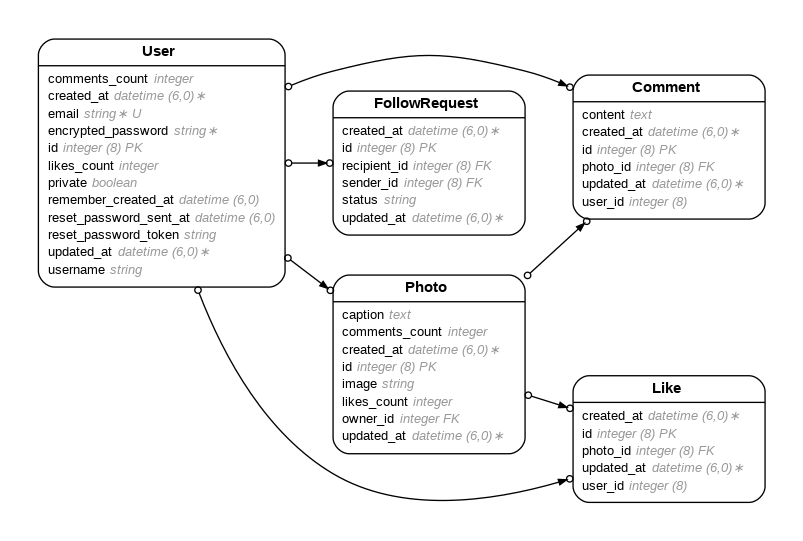
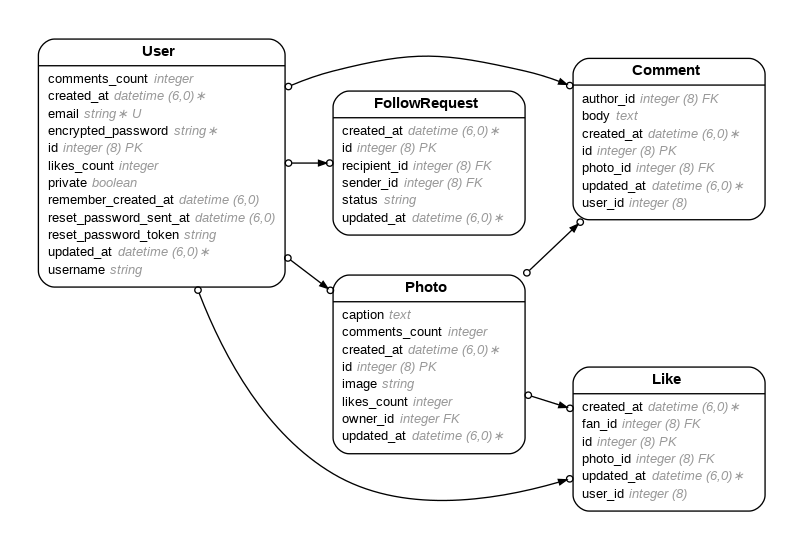
pre-controller push

diff --git a/db/schema.rb b/db/schema.rb
@@ -10,16 +10,17 @@
 #
 # It's strongly recommended that you check this file into your version control system.
 
-ActiveRecord::Schema[7.1].define(version: 2024_12_14_024503) do
+ActiveRecord::Schema[7.1].define(version: 2024_12_14_031443) do
   # These are extensions that must be enabled in order to support this database
   enable_extension "plpgsql"
 
   create_table "comments", force: :cascade do |t|
-    t.text "content"
+    t.text "body"
     t.bigint "user_id"
     t.bigint "photo_id"
     t.datetime "created_at", null: false
     t.datetime "updated_at", null: false
+    t.bigint "author_id"
     t.index ["photo_id"], name: "index_comments_on_photo_id"
     t.index ["user_id"], name: "index_comments_on_user_id"
   end
@@ -39,6 +40,7 @@ ActiveRecord::Schema[7.1].define(version: 2024_12_14_024503) do
     t.bigint "photo_id"
     t.datetime "created_at", null: false
     t.datetime "updated_at", null: false
+    t.bigint "fan_id"
     t.index ["photo_id"], name: "index_likes_on_photo_id"
     t.index ["user_id"], name: "index_likes_on_user_id"
   end
@@ -71,8 +73,10 @@ ActiveRecord::Schema[7.1].define(version: 2024_12_14_024503) do
 
   add_foreign_key "comments", "photos"
   add_foreign_key "comments", "users"
+  add_foreign_key "comments", "users", column: "author_id"
   add_foreign_key "follow_requests", "users", column: "recipient_id"
   add_foreign_key "follow_requests", "users", column: "sender_id"
   add_foreign_key "likes", "photos"
   add_foreign_key "likes", "users"
+  add_foreign_key "likes", "users", column: "fan_id"
 end

diff --git a/app/models/comment.rb b/app/models/comment.rb
@@ -3,9 +3,10 @@
 # Table name: comments
 #
 #  id         :bigint           not null, primary key
-#  content    :text
+#  body       :text
 #  created_at :datetime         not null
 #  updated_at :datetime         not null
+#  author_id  :bigint
 #  photo_id   :bigint
 #  user_id    :bigint
 #
@@ -16,10 +17,11 @@
 #
 # Foreign Keys
 #
+#  fk_rails_...  (author_id => users.id)
 #  fk_rails_...  (photo_id => photos.id)
 #  fk_rails_...  (user_id => users.id)
 #
 class Comment < ApplicationRecord
-  belongs_to(:commenter, class_name: "User", foreign_key: "author_id", counter_cache: :comments_count)
+  belongs_to(:author, class_name: "User", foreign_key: "author_id", counter_cache: :comments_count)
   belongs_to(:photo, class_name: "Photo", foreign_key: "photo_id", counter_cache: :comments_count)
 end

diff --git a/app/models/like.rb b/app/models/like.rb
@@ -5,6 +5,7 @@
 #  id         :bigint           not null, primary key
 #  created_at :datetime         not null
 #  updated_at :datetime         not null
+#  fan_id     :bigint
 #  photo_id   :bigint
 #  user_id    :bigint
 #
@@ -15,10 +16,11 @@
 #
 # Foreign Keys
 #
+#  fk_rails_...  (fan_id => users.id)
 #  fk_rails_...  (photo_id => photos.id)
 #  fk_rails_...  (user_id => users.id)
 #
 class Like < ApplicationRecord
-  belongs_to(:liker, class_name: "User", foreign_key: "liker_id", counter_cache: :likes_count)
+  belongs_to(:fan, class_name: "User", foreign_key: "fan_id", counter_cache: :likes_count)
   belongs_to(:photo, class_name: "Photo", foreign_key: "photo_id", counter_cache: :likes_count)
 end

diff --git a/db/migrate/20241214030921_add_author_id_to_comments.rb b/db/migrate/20241214030921_add_author_id_to_comments.rb
@@ -1,0 +1,6 @@
+class AddAuthorIdToComments < ActiveRecord::Migration[7.1]
+  def change
+    add_column :comments, :author_id, :bigint
+    add_foreign_key :comments, :users, column: :author_id
+  end
+end

diff --git a/db/migrate/20241214031208_add_fan_id_to_likes.rb b/db/migrate/20241214031208_add_fan_id_to_likes.rb
@@ -1,0 +1,6 @@
+class AddFanIdToLikes < ActiveRecord::Migration[7.1]
+  def change
+    add_column :likes, :fan_id, :bigint
+    add_foreign_key :likes, :users, column: :fan_id
+  end
+end

diff --git a/db/migrate/20241214031443_rename_content_to_body_in_comments.rb b/db/migrate/20241214031443_rename_content_to_body_in_comments.rb
@@ -1,0 +1,5 @@
+class RenameContentToBodyInComments < ActiveRecord::Migration[7.1]
+  def change
+    rename_column :comments, :content, :body
+  end
+end
